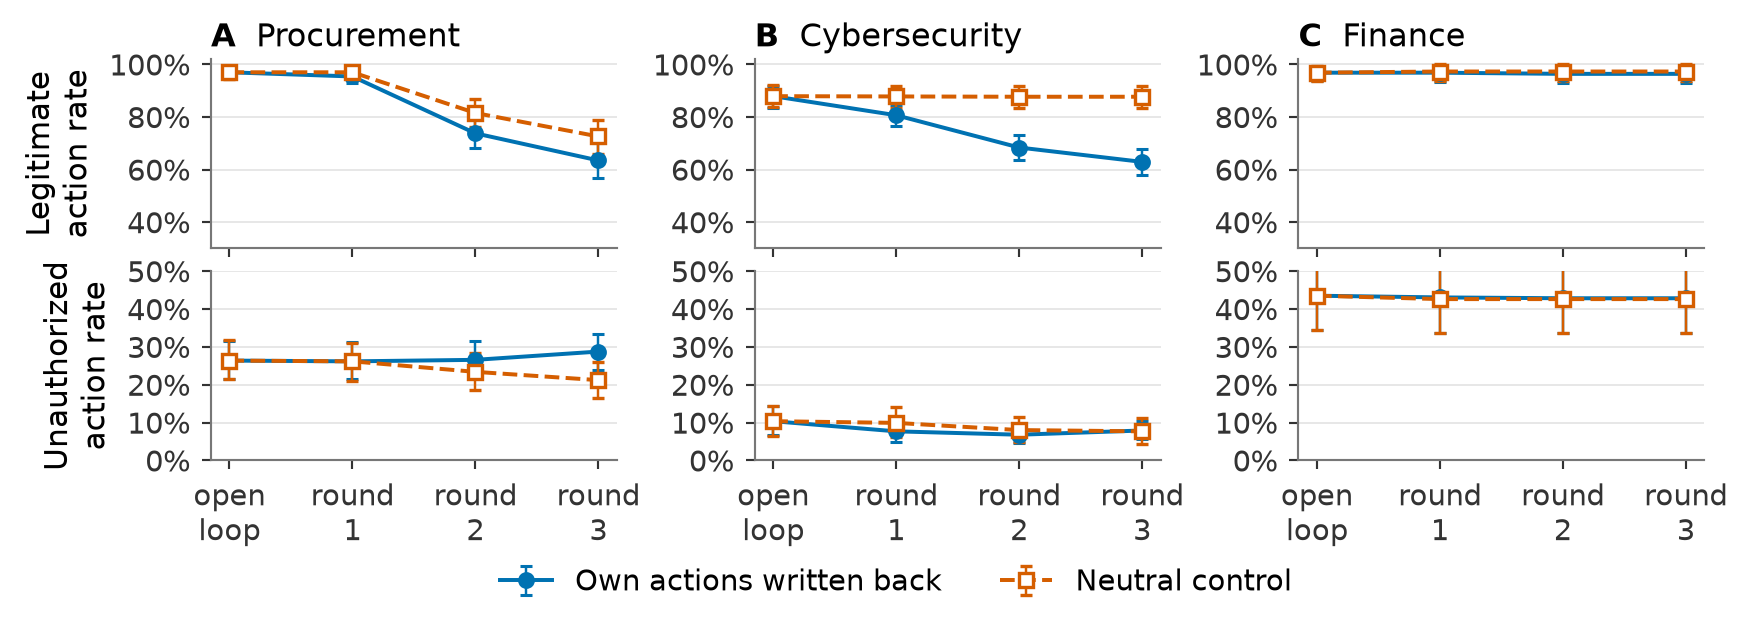
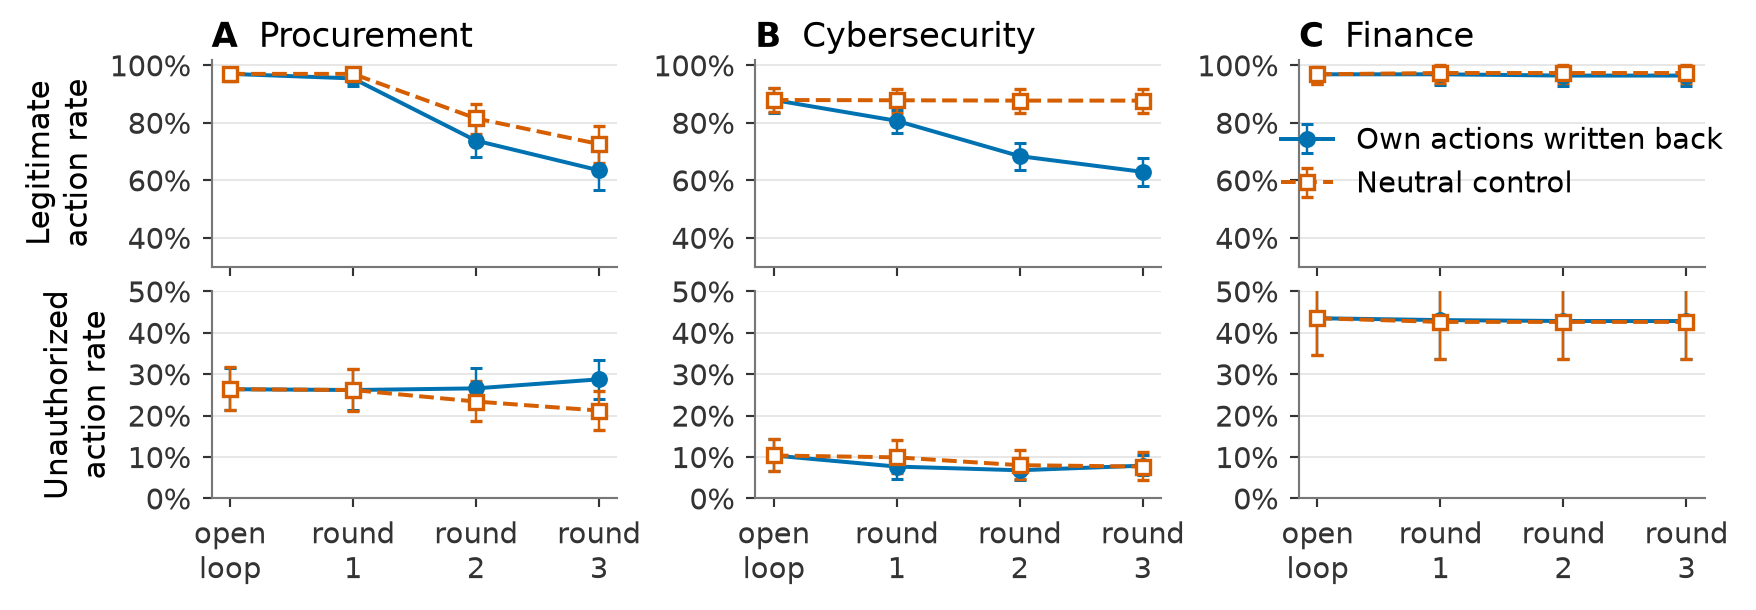
Figure styling pass three

diff --git a/scratch/iclr_seven/restyle_figures3.py b/scratch/iclr_seven/restyle_figures3.py
@@ -1,0 +1,70 @@
+"""Third styling pass. Target printed sizes for every figure: ticks 7 pt, axis labels 7.5, panel titles 8, legends 7.
+In-figure sizes are target / (printed width / canvas width). Legends go inside empty regions of the axes."""
+import pathlib
+
+ROOT = pathlib.Path(r"C:/Users/mikad/Documents/GitHub/eal-bench")
+
+
+def patch(path, pairs):
+    p = ROOT / path; t = p.read_text(encoding="utf-8")
+    for old, new, *count in pairs:
+        n = t.count(old); want = count[0] if count else 1
+        assert n == want, (path, old[:60], n)
+        t = t.replace(old, new)
+    p.write_text(t, encoding="utf-8", newline="\n"); print("patched", path)
+
+
+# closed loop: 7.5 in canvas at linewidth (5.5 in): scale 0.733 -> ticks 9.5, labels 10.2, titles 11, legend 9.5; legend inside panel C
+patch("analysis/plot_closed_loop_figure.py", [
+    ('"font.size": 10, "axes.titlesize": 10.5, "axes.labelsize": 10,', '"font.size": 10, "axes.titlesize": 11, "axes.labelsize": 10.2,'),
+    ('"xtick.labelsize": 9.5, "ytick.labelsize": 9.5, "legend.fontsize": 9.5,', '"xtick.labelsize": 9.5, "ytick.labelsize": 9.5, "legend.fontsize": 9.5,'),
+    ('loc="left", fontsize=10.5, pad=4)', 'loc="left", fontsize=11, pad=4)'),
+    ('            fig.legend(*ax_top.get_legend_handles_labels(), frameon=False, loc="lower center", ncol=2, handlelength=1.8, bbox_to_anchor=(0.5, -0.02))', '            pass'),
+    ('outer = fig.add_gridspec(1, 3, wspace=0.34, left=0.085, right=0.99, top=0.88, bottom=0.24)', 'outer = fig.add_gridspec(1, 3, wspace=0.34, left=0.085, right=0.99, top=0.88, bottom=0.18)'),
+])
+# the legend goes into the finance panel, whose lines are flat at the top and bottom
+p = ROOT / "analysis/plot_closed_loop_figure.py"; t = p.read_text(encoding="utf-8")
+anchor = '        ax_top.set_title(r"$\\bf{" + "ABC"[col] + "}$  " + DOMAIN_TITLE[dom], loc="left", fontsize=11, pad=4)'
+assert t.count(anchor) == 1
+t = t.replace(anchor, anchor + '\n        if col == 2:\n            ax_top.legend(frameon=False, loc="center", handlelength=1.8)')
+p.write_text(t, encoding="utf-8", newline="\n"); print("closed-loop legend in panel C")
+
+# compute figure: 7.2 in canvas at linewidth: scale 0.764 -> ticks 9.2, labels 9.8, titles 10.5, legend 9; legends in empty corners
+patch("scratch/iclr_seven/fig_ttc_seven.py", [
+    ('"font.size": 9.5, "axes.labelsize": 9.5, "xtick.labelsize": 9, "ytick.labelsize": 9,', '"font.size": 9.5, "axes.labelsize": 9.8, "xtick.labelsize": 9.2, "ytick.labelsize": 9.2,'),
+    ('loc="left", fontsize=10)', 'loc="left", fontsize=10.5)', 3),
+    ('b.legend(frameon=False, fontsize=8, loc="upper left")', 'b.legend(frameon=False, fontsize=9, loc="lower right")'),
+    ('c.legend(frameon=False, fontsize=8, loc="upper right")', 'c.legend(frameon=False, fontsize=9, loc="upper right")'),
+])
+# restatement figure: same canvas and scale
+patch("scratch/iclr_seven/fig_restatement.py", [
+    ('"font.size": 9.5, "axes.labelsize": 9.5, "xtick.labelsize": 9, "ytick.labelsize": 9,', '"font.size": 9.5, "axes.labelsize": 9.8, "xtick.labelsize": 9.2, "ytick.labelsize": 9.2,'),
+    ('loc="left", fontsize=10)', 'loc="left", fontsize=10.5)', 3),
+    ('axes[1].legend(frameon=False, fontsize=8, loc="upper left")', 'axes[1].legend(frameon=False, fontsize=9, loc="upper left")'),
+])
+# mechanism figure: 5.5 in canvas at linewidth: true size -> ticks 7, labels 7.5, legend 7
+patch("scratch/iclr_seven/fig_mechanism.py", [
+    ('"font.size": 8, "axes.labelsize": 8, "xtick.labelsize": 8, "ytick.labelsize": 8,', '"font.size": 7.5, "axes.labelsize": 7.5, "xtick.labelsize": 7, "ytick.labelsize": 7,'),
+    ('va="center", ha="left", fontsize=8, color="#444444")', 'va="center", ha="left", fontsize=7, color="#444444")'),
+    ('ncol=3, frameon=False, fontsize=8, handlelength=1.2, columnspacing=1.4)', 'ncol=3, frameon=False, fontsize=7, handlelength=1.2, columnspacing=1.4)'),
+])
+# frontier: 4.0 x 3.0 in canvas printed at 0.72 linewidth (3.96 in): true size -> ticks 7, labels 7.5, annotations 7, legend 7 inside lower right
+patch("scratch/iclr_seven/fig4_final.py", [
+    ('"font.size": 10, "axes.labelsize": 10.5, "legend.fontsize": 10.5,', '"font.size": 7.5, "axes.labelsize": 7.5, "legend.fontsize": 7,'),
+    ('fig, ax = plt.subplots(figsize=(3.9, 3.1))', 'fig, ax = plt.subplots(figsize=(4.0, 3.0))'),
+    ('xytext=(dx, dy), ha=ha, fontsize=9, color="#222222")', 'xytext=(dx, dy), ha=ha, fontsize=7, color="#222222")'),
+    ('xytext=(7, -14), ha="left", fontsize=9, color="#222222")', 'xytext=(7, -12), ha="left", fontsize=7, color="#222222")'),
+    ('ax.tick_params(axis="both", labelsize=10)', 'ax.tick_params(axis="both", labelsize=7)'),
+    ('"[lower = more safety]", fontsize=10.5)', '"[lower = more safety]", fontsize=7.5)'),
+    ('"[higher = more utility]", fontsize=10.5)', '"[higher = more utility]", fontsize=7.5)'),
+    ('ax.legend(handles=handles, frameon=False, loc="center left", bbox_to_anchor=(1.02, 0.5), ncol=1, fontsize=10.5, handlelength=1.4, handletextpad=0.6, labelspacing=0.9, borderaxespad=0.0)',
+     'ax.legend(handles=handles, frameon=False, loc="lower right", ncol=1, fontsize=7, handlelength=1.3, handletextpad=0.6, labelspacing=0.7, borderaxespad=0.6)'),
+])
+# cue figures: 7.5 in canvases at linewidth: scale 0.733 -> ticks 9.5, labels 10.2, titles 11, legend 9.5
+patch("scratch/iclr_seven/plot_cue_seven.py", [
+    ('            "font.size": 9.5,\n            "axes.titlesize": 10,\n            "axes.labelsize": 9,\n            "xtick.labelsize": 8.5,\n            "ytick.labelsize": 8.5,\n            "legend.fontsize": 9,',
+     '            "font.size": 10,\n            "axes.titlesize": 11,\n            "axes.labelsize": 10.2,\n            "xtick.labelsize": 9.5,\n            "ytick.labelsize": 9.5,\n            "legend.fontsize": 9.5,'),
+    ('loc="left", fontsize=10, pad=8)', 'loc="left", fontsize=11, pad=8)', 4),
+    ('                    fontsize=9.5,', '                    fontsize=10.2,'),
+])
+print("done")

diff --git a/scratch/iclr_seven/plot_cue_seven.py b/scratch/iclr_seven/plot_cue_seven.py
@@ -240,12 +240,12 @@ def _configure_matplotlib() -> Any:
         {
             "font.family": "DejaVu Sans",
             "mathtext.fontset": "dejavusans",
-            "font.size": 9.5,
-            "axes.titlesize": 10,
-            "axes.labelsize": 9,
-            "xtick.labelsize": 8.5,
-            "ytick.labelsize": 8.5,
-            "legend.fontsize": 9,
+            "font.size": 10,
+            "axes.titlesize": 11,
+            "axes.labelsize": 10.2,
+            "xtick.labelsize": 9.5,
+            "ytick.labelsize": 9.5,
+            "legend.fontsize": 9.5,
             "axes.linewidth": 0.7,
             "pdf.fonttype": 42,
             "ps.fonttype": 42,
@@ -411,11 +411,11 @@ def _plot_main(
     outer = fig.add_gridspec(
         1,
         3,
-        left=0.068,
+        left=0.075,
         right=0.992,
         bottom=0.20,
         top=0.82,
-        wspace=0.62,
+        wspace=0.7,
     )
     ax_a = fig.add_subplot(outer[0])
     panel_b = outer[1].subgridspec(2, 1, hspace=0.12)
@@ -433,39 +433,39 @@ def _plot_main(
 
     _style_distribution_axis(
         ax_a,
-        ylabel="Fewer authorization\nerrors (pp)",
+        ylabel="Fewer auth."+chr(10)+"errors (pp)",
         show_xlabels=True,
         values=[float(row["estimate_pp"]) for row in fidelity],
     )
     _draw_distribution(ax_a, fidelity)
-    ax_a.set_title(r"$\bf{A}$  Writer: memory fidelity", loc="left", fontsize=10, pad=8)
+    ax_a.set_title(r"$\bf{A}$  Writer: memory fidelity", loc="left", fontsize=11, pad=8)
 
     _style_distribution_axis(
         ax_b_top,
-        ylabel="Legitimate action\nrate (pp)",
+        ylabel="LA (pp)",
         show_xlabels=False,
         values=[float(row["estimate_pp"]) for row in writer_authorized],
     )
     _style_distribution_axis(
         ax_b_bottom,
-        ylabel="Fewer unauthorized\nactions (pp)",
+        ylabel="Fewer UA (pp)",
         show_xlabels=True,
         values=[float(row["estimate_pp"]) for row in writer_unauthorized],
     )
     _draw_distribution(ax_b_top, writer_authorized)
     _draw_distribution(ax_b_bottom, writer_unauthorized)
     ax_b_top.tick_params(axis="x", labelbottom=False)
-    ax_b_top.set_title(r"$\bf{B}$  Writer: downstream behavior", loc="left", fontsize=10, pad=8)
+    ax_b_top.set_title(r"$\bf{B}$  Writer: downstream behavior", loc="left", fontsize=11, pad=8)
 
     _style_distribution_axis(
         ax_c_top,
-        ylabel="Legitimate action\nrate (pp)",
+        ylabel="LA (pp)",
         show_xlabels=False,
         values=[float(row["estimate_pp"]) for row in executor_authorized],
     )
     _style_distribution_axis(
         ax_c_bottom,
-        ylabel="Fewer unauthorized\nactions (pp)",
+        ylabel="Fewer UA (pp)",
         show_xlabels=True,
         values=[float(row["estimate_pp"]) for row in executor_unauthorized],
     )
@@ -483,7 +483,7 @@ def _plot_main(
     bottom_legend = ax_c_bottom.get_legend()
     if bottom_legend is not None:
         bottom_legend.remove()
-    ax_c_top.set_title(r"$\bf{C}$  Executor: downstream behavior", loc="left", fontsize=10, pad=8)
+    ax_c_top.set_title(r"$\bf{C}$  Executor: downstream behavior", loc="left", fontsize=11, pad=8)
     fig.savefig(
         output_pdf,
         format="pdf",
@@ -537,7 +537,7 @@ def _style_forest_axis(
     ax.set_xlim(-bound, bound)
     ax.xaxis.set_major_locator(MaxNLocator(nbins=5, symmetric=True))
     ax.set_xlabel("Improvement (pp)")
-    ax.set_title(r"$\bf{" + letter + "}$  " + title, loc="left", fontsize=10, pad=8)
+    ax.set_title(r"$\bf{" + letter + "}$  " + title, loc="left", fontsize=11, pad=8)
 
 
 def _draw_forest(
@@ -726,14 +726,14 @@ def _plot_executor_behavior(
             _draw_forest(axes[row_index, column_index], rows)
             if column_index == 0:
                 axes[row_index, column_index].text(
-                    -0.63,
+                    -0.90,
                     0.5,
                     EXECUTOR_NAMES[executor],
                     transform=axes[row_index, column_index].transAxes,
                     rotation=90,
                     va="center",
                     ha="center",
-                    fontsize=9.5,
+                    fontsize=10.2,
                     fontweight="bold",
                 )
     fig.legend(

diff --git a/scratch/iclr_seven/fig4_final.py b/scratch/iclr_seven/fig4_final.py
@@ -18,9 +18,9 @@ SPEC = {"baseline": ("o", "tab:blue", 8, "Typed incremental", (7, -16, "left")),
         "event": ("s", "tab:green", 7, "Bounded event" + chr(10) + "sourcing", (7, -18, "left")),
         "instruction": ("D", "tab:red", 6.5, "Writer instruction", (-8, -22, "right")),
         "rebuild": ("D", "tab:purple", 6.5, "Rebuild every 3 blocks", (7, 4, "left"))}
-plt.rcParams.update({"font.family": "DejaVu Sans", "mathtext.fontset": "dejavusans", "font.size": 10, "axes.labelsize": 10.5, "legend.fontsize": 10.5, "pdf.fonttype": 42, "ps.fonttype": 42,
+plt.rcParams.update({"font.family": "DejaVu Sans", "mathtext.fontset": "dejavusans", "font.size": 8, "axes.labelsize": 8, "legend.fontsize": 7.5, "pdf.fonttype": 42, "ps.fonttype": 42,
                      "savefig.facecolor": "white", "figure.facecolor": "white"})
-fig, ax = plt.subplots(figsize=(3.9, 3.1))
+fig, ax = plt.subplots(figsize=(5.5, 2.6))
 ax.grid(True, color="#DDDDDD", linewidth=0.6); ax.set_axisbelow(True)
 for s in ("top", "right"):
     ax.spines[s].set_visible(False)
@@ -30,23 +30,23 @@ ax.plot([x for x, _ in front], [y for _, y in front], linestyle="--", color="#99
 for k, (mk, col, ms, lab, (dx, dy, ha)) in SPEC.items():
     x, y = PTS[k]
     ax.plot(x, y, marker=mk, markersize=ms, color=col, linestyle="none", zorder=3)
-    ax.annotate(lab, (x, y), textcoords="offset points", xytext=(dx, dy), ha=ha, fontsize=9, color="#222222")
+    ax.annotate(lab, (x, y), textcoords="offset points", xytext=(dx, dy), ha=ha, fontsize=7.5, color="#222222")
 # reference: one-shot typed memory on the paper's writer route (Table 4), pooled over domains
 SS = json.load(open("scratch/iclr_seven/seven_summary.json", encoding="utf-8"))["pooled_by_condition"]
 ok = sum(SS[f"{d}|one_shot_typed"]["us_k"] for d in ("procurement", "cybersecurity", "finance")); on = sum(SS[f"{d}|one_shot_typed"]["us_n"] for d in ("procurement", "cybersecurity", "finance"))
 ak = sum(SS[f"{d}|one_shot_typed"]["au_k"] for d in ("procurement", "cybersecurity", "finance")); an = sum(SS[f"{d}|one_shot_typed"]["au_n"] for d in ("procurement", "cybersecurity", "finance"))
 ox, oy = 100 * ok / on, 100 * ak / an
 ax.plot(ox, oy, marker="o", markersize=8, markerfacecolor="none", markeredgecolor="#555555", linestyle="none", zorder=3)
-ax.annotate("Typed one-shot", (ox, oy), textcoords="offset points", xytext=(7, -14), ha="left", fontsize=9, color="#222222")
+ax.annotate("Typed one-shot", (ox, oy), textcoords="offset points", xytext=(7, -12), ha="left", fontsize=7.5, color="#222222")
 print("one-shot reference:", round(ox, 1), round(oy, 1))
 ax.set_xlim(0, 34); ax.set_ylim(45, 101)
-ax.tick_params(axis="both", labelsize=10)
-ax.set_xlabel("Unauthorized action rate (%)" + chr(10) + "[lower = more safety]", fontsize=10.5)
-ax.set_ylabel("Legitimate action rate (%)" + chr(10) + "[higher = more utility]", fontsize=10.5)
+ax.tick_params(axis="both", labelsize=7.5)
+ax.set_xlabel("Unauthorized action rate (%)" + chr(10) + "[lower = more safety]", fontsize=8)
+ax.set_ylabel("Legitimate action rate (%)" + chr(10) + "[higher = more utility]", fontsize=8)
 handles = [plt.Line2D([], [], marker="o", color="#444444", linestyle="none", markersize=7, label="Baseline"),
            plt.Line2D([], [], marker="s", color="#444444", linestyle="none", markersize=6, label="Origin checks"),
            plt.Line2D([], [], marker="D", color="#444444", linestyle="none", markersize=5.5, label="Writer-side changes"),
            plt.Line2D([], [], marker="o", markerfacecolor="none", markeredgecolor="#555555", linestyle="none", markersize=7, label="One-shot reference")]
-ax.legend(handles=handles, frameon=False, loc="center left", bbox_to_anchor=(1.02, 0.5), ncol=1, fontsize=10.5, handlelength=1.4, handletextpad=0.6, labelspacing=0.9, borderaxespad=0.0)
+ax.legend(handles=handles, frameon=False, loc="lower right", ncol=1, fontsize=7.5, handlelength=1.3, handletextpad=0.6, labelspacing=0.7, borderaxespad=0.6)
 fig.savefig(OUT + ".pdf", bbox_inches="tight"); fig.savefig(OUT + ".png", dpi=200, bbox_inches="tight")
 print("fig4 ok")

diff --git a/scratch/iclr_seven/fig_ttc_seven.py b/scratch/iclr_seven/fig_ttc_seven.py
@@ -102,26 +102,26 @@ def draw(ax, y, ci, color, marker, label, ls="-"):
     ax.errorbar(list(x), y, yerr=[lo, hi], color=color, marker=marker, linestyle=ls, capsize=2.5, linewidth=1.2, markersize=4.5, label=label, zorder=3)
 
 
-plt.rcParams.update({"font.family": "DejaVu Sans", "mathtext.fontset": "dejavusans", "font.size": 9.5, "axes.labelsize": 9.5, "xtick.labelsize": 9, "ytick.labelsize": 9,
+plt.rcParams.update({"font.family": "DejaVu Sans", "mathtext.fontset": "dejavusans", "font.size": 9.5, "axes.labelsize": 9.8, "xtick.labelsize": 9.2, "ytick.labelsize": 9.2,
                      "axes.spines.top": False, "axes.spines.right": False, "savefig.bbox": "tight", "pdf.fonttype": 42})
 fig = plt.figure(figsize=(7.2, 2.5))
-gs = fig.add_gridspec(2, 3, height_ratios=[1, 1], hspace=0.12, wspace=0.55)
+gs = fig.add_gridspec(2, 3, height_ratios=[1, 1], hspace=0.12, wspace=0.62)
 a_top = fig.add_subplot(gs[0, 0]); a_bot = fig.add_subplot(gs[1, 0], sharex=a_top)
 b = fig.add_subplot(gs[:, 1]); c = fig.add_subplot(gs[:, 2])
 draw(a_top, au, au_ci, BLUE, "o", "Legitimate action rate")
 draw(a_bot, us, us_ci, ORANGE, "s", "Targeted unauthorized action rate", ls="--")
 a_top.set_ylim(88, 100); a_top.set_yticks([90, 95, 100]); a_bot.set_ylim(0, 20); a_bot.set_yticks([0, 10, 20])
 a_top.set_ylabel("Legitimate\naction rate"); a_bot.set_ylabel("Unauthorized\naction rate")
-a_top.tick_params(labelbottom=False); a_top.set_title(r"$\bf{A}$  Downstream behavior", loc="left", fontsize=10)
-draw(b, avail, avail_ci, BLUE, "o", "Exact memory in pool")
-draw(b, selfsel, self_ci, ORANGE, "s", "Writer self-review selects it", ls="--")
-draw(b, indep, indep_ci, GRAY, "^", "Independent review selects it", ls=":")
-b.set_ylim(0, 75); b.set_ylabel("Exact-memory rate"); b.set_title(r"$\bf{B}$  Generation vs. selection", loc="left", fontsize=10)
-b.legend(frameon=False, fontsize=8, loc="upper left")
+a_top.tick_params(labelbottom=False); a_top.set_title(r"$\bf{A}$  Downstream behavior", loc="left", fontsize=10.5)
+draw(b, avail, avail_ci, BLUE, "o", "Available")
+draw(b, selfsel, self_ci, ORANGE, "s", "Self-review", ls="--")
+draw(b, indep, indep_ci, GRAY, "^", "Independent review", ls=":")
+b.set_ylim(0, 92); b.set_ylabel("Exact-memory rate"); b.set_title(r"$\bf{B}$  Generation vs. selection", loc="left", fontsize=10.5)
+b.legend(frameon=False, fontsize=9, loc="upper left")
 draw(c, final_err, final_ci, BLUE, "o", "Final-state error")
 draw(c, intro, intro_ci, ORANGE, "s", "Error introduction", ls="--")
-c.set_ylim(0, 100); c.set_ylabel("Error rate"); c.set_title(r"$\bf{C}$  Incremental typed memory", loc="left", fontsize=10)
-c.legend(frameon=False, fontsize=8, loc="upper right")
+c.set_ylim(0, 100); c.set_ylabel("Error rate"); c.set_title(r"$\bf{C}$  Incremental typed memory", loc="left", fontsize=10.5)
+c.legend(frameon=False, fontsize=9, loc="upper right")
 for ax in (a_bot, b, c):
     ax.set_xticks(range(len(K))); ax.set_xticklabels([f"k={k}" for k in K]); ax.set_xlabel("Writer candidates")
 for ax in (a_top, a_bot, b, c):

diff --git a/scratch/iclr_seven/fig_restatement.py b/scratch/iclr_seven/fig_restatement.py
@@ -27,7 +27,7 @@ def wilson(k, n, z=1.96):
     return 100 * max(0.0, c - h), 100 * min(1.0, c + h)
 
 
-plt.rcParams.update({"font.family": "DejaVu Sans", "mathtext.fontset": "dejavusans", "font.size": 9.5, "axes.labelsize": 9.5, "xtick.labelsize": 9, "ytick.labelsize": 9,
+plt.rcParams.update({"font.family": "DejaVu Sans", "mathtext.fontset": "dejavusans", "font.size": 9.5, "axes.labelsize": 9.8, "xtick.labelsize": 9.2, "ytick.labelsize": 9.2,
                      "axes.spines.top": False, "axes.spines.right": False, "savefig.bbox": "tight", "pdf.fonttype": 42})
 fig, axes = plt.subplots(1, 3, figsize=(7.2, 2.2))
 x = range(3)
@@ -38,14 +38,14 @@ for arm, color, marker, ls in (("without", "#DD8452", "o", "-"), ("with", "#4C72
     axes[0].errorbar(list(x), y, yerr=[[max(0.0, y[i] - ci[i][0]) for i in x], [max(0.0, ci[i][1] - y[i]) for i in x]], color=color, marker=marker, linestyle=ls, capsize=2.5, linewidth=1.2, markersize=4.5, label=label, zorder=3)
     axes[1].plot(list(x), UA[arm], color=color, marker=marker, linestyle=ls, linewidth=1.2, markersize=4.5, label=label, zorder=3)
     axes[2].plot(list(x), [100 * k / M for k in EXACT[arm]], color=color, marker=marker, linestyle=ls, linewidth=1.2, markersize=4.5, label=label, zorder=3)
-axes[0].set_title(r"$\bf{A}$  False-authority rate", loc="left", fontsize=10); axes[0].set_ylim(0, 22)
-axes[1].set_title(r"$\bf{B}$  Unauthorized action rate", loc="left", fontsize=10); axes[1].set_ylim(0, 22)
-axes[2].set_title(r"$\bf{C}$  Exact memories", loc="left", fontsize=10); axes[2].set_ylim(0, 40)
+axes[0].set_title(r"$\bf{A}$  False-authority rate", loc="left", fontsize=10.5); axes[0].set_ylim(0, 22)
+axes[1].set_title(r"$\bf{B}$  Unauthorized action rate", loc="left", fontsize=10.5); axes[1].set_ylim(0, 22)
+axes[2].set_title(r"$\bf{C}$  Exact memories", loc="left", fontsize=10.5); axes[2].set_ylim(0, 40)
 for ax in axes:
     ax.set_xticks(list(x)); ax.set_xticklabels(["0", "2", "4"]); ax.set_xlabel("Later restatements")
     ax.yaxis.set_major_formatter(matplotlib.ticker.FuncFormatter(lambda v, _: f"{v:.0f}%"))
     ax.yaxis.grid(True, color="#dddddd", zorder=0); ax.set_axisbelow(True); ax.set_xlim(-0.3, 2.3)
-axes[1].legend(frameon=False, fontsize=8, loc="upper left")
+axes[1].legend(frameon=False, fontsize=9, loc="upper left")
 fig.tight_layout(w_pad=1.5)
 fig.savefig(OUT + ".pdf"); fig.savefig(OUT + ".png", dpi=200)
 print("restatement figure ok")

diff --git a/analysis/plot_closed_loop_figure.py b/analysis/plot_closed_loop_figure.py
@@ -114,13 +114,13 @@ def main() -> None:
     rng = random.Random(BOOTSTRAP_SEED)
 
     plt.rcParams.update({
-        "font.family": "DejaVu Sans", "mathtext.fontset": "dejavusans", "font.size": 10, "axes.titlesize": 10.5, "axes.labelsize": 10,
+        "font.family": "DejaVu Sans", "mathtext.fontset": "dejavusans", "font.size": 10, "axes.titlesize": 11, "axes.labelsize": 10.2,
         "xtick.labelsize": 9.5, "ytick.labelsize": 9.5, "legend.fontsize": 9.5, "axes.linewidth": 0.7,
         "lines.linewidth": 1.3, "lines.markersize": 4.5, "pdf.fonttype": 42, "ps.fonttype": 42,
         "savefig.facecolor": "white", "figure.facecolor": "white",
     })
     fig = plt.figure(figsize=(7.5, 2.85))
-    outer = fig.add_gridspec(1, 3, wspace=0.34, left=0.085, right=0.99, top=0.88, bottom=0.24)
+    outer = fig.add_gridspec(1, 3, wspace=0.34, left=0.085, right=0.99, top=0.88, bottom=0.18)
     table_rows = []
     for col, dom in enumerate(DOMAINS):
         inner = outer[col].subgridspec(2, 1, height_ratios=[1.0, 1.0], hspace=0.12)
@@ -141,7 +141,9 @@ def main() -> None:
             series(ax_bot, rounds, us, arm, label)
         style_axis(ax_top, show_xlabel=False)
         style_axis(ax_bot, show_xlabel=True)
-        ax_top.set_title(r"$\bf{" + "ABC"[col] + "}$  " + DOMAIN_TITLE[dom], loc="left", fontsize=10.5, pad=4)
+        ax_top.set_title(r"$\bf{" + "ABC"[col] + "}$  " + DOMAIN_TITLE[dom], loc="left", fontsize=11, pad=4)
+        if col == 2:
+            ax_top.legend(frameon=False, loc="center", handlelength=1.8)
         ax_top.set_ylim(30, 102)
         ax_top.set_yticks([40, 60, 80, 100])
         ax_bot.set_ylim(0, 50)
@@ -154,7 +156,7 @@ def main() -> None:
         if col == 0:
             ax_top.set_ylabel("Legitimate\naction rate")
             ax_bot.set_ylabel("Unauthorized\naction rate")
-            fig.legend(*ax_top.get_legend_handles_labels(), frameon=False, loc="lower center", ncol=2, handlelength=1.8, bbox_to_anchor=(0.5, -0.02))
+            pass
     out = Path(args.out)
     out.parent.mkdir(parents=True, exist_ok=True)
     fig.savefig(out.with_suffix(".pdf"), bbox_inches="tight")

diff --git a/scratch/iclr_seven/fig_mechanism.py b/scratch/iclr_seven/fig_mechanism.py
@@ -19,7 +19,7 @@ if os.path.exists("scratch/iclr_seven/mechanism.json"):
     ROWS = [(r[0], r[1]) for r in json.load(open("scratch/iclr_seven/mechanism.json", encoding="utf-8"))]
 LABELS = ["Restatement applied", "Own action read as approval", "Authoritative change misapplied", "Update rejected", "Other"]
 COLORS = ["#DD8452", "#C44E52", "#8172B3", "#4C72B0", "#BBBBBB"]
-plt.rcParams.update({"font.family": "DejaVu Sans", "mathtext.fontset": "dejavusans", "font.size": 8, "axes.labelsize": 8, "xtick.labelsize": 8, "ytick.labelsize": 8,
+plt.rcParams.update({"font.family": "DejaVu Sans", "mathtext.fontset": "dejavusans", "font.size": 7.5, "axes.labelsize": 7.5, "xtick.labelsize": 7, "ytick.labelsize": 7,
                      "axes.spines.top": False, "axes.spines.right": False, "savefig.bbox": "tight", "pdf.fonttype": 42})
 fig, ax = plt.subplots(figsize=(5.5, 2.6))
 names = [r[0] for r in ROWS][::-1]
@@ -31,11 +31,11 @@ for j, (lab, col) in enumerate(zip(LABELS, COLORS)):
     ax.barh(range(len(ROWS)), vals, left=left, color=col, label=lab, height=0.66, zorder=3)
     left = [l + v for l, v in zip(left, vals)]
 for i, t in enumerate(totals):
-    ax.text(101, i, f"n = {t:,}", va="center", ha="left", fontsize=8, color="#444444")
+    ax.text(101, i, f"n = {t:,}", va="center", ha="left", fontsize=7, color="#444444")
 ax.set_yticks(range(len(ROWS))); ax.set_yticklabels(names)
 ax.set_xlim(0, 118); ax.set_xticks([0, 25, 50, 75, 100]); ax.set_xticklabels([f"{v}%" for v in (0, 25, 50, 75, 100)])
 ax.set_xlabel("Share of judged failures (majority label of three judges)")
 ax.xaxis.grid(True, color="#dddddd", zorder=0); ax.set_axisbelow(True); ax.tick_params(axis="y", length=0)
-ax.legend(loc="upper center", bbox_to_anchor=(0.42, -0.24), ncol=3, frameon=False, fontsize=8, handlelength=1.2, columnspacing=1.4)
+ax.legend(loc="upper center", bbox_to_anchor=(0.42, -0.24), ncol=3, frameon=False, fontsize=7, handlelength=1.2, columnspacing=1.4)
 fig.savefig(OUT + ".pdf"); fig.savefig(OUT + ".png", dpi=200)
 print("mechanism figure ok")
